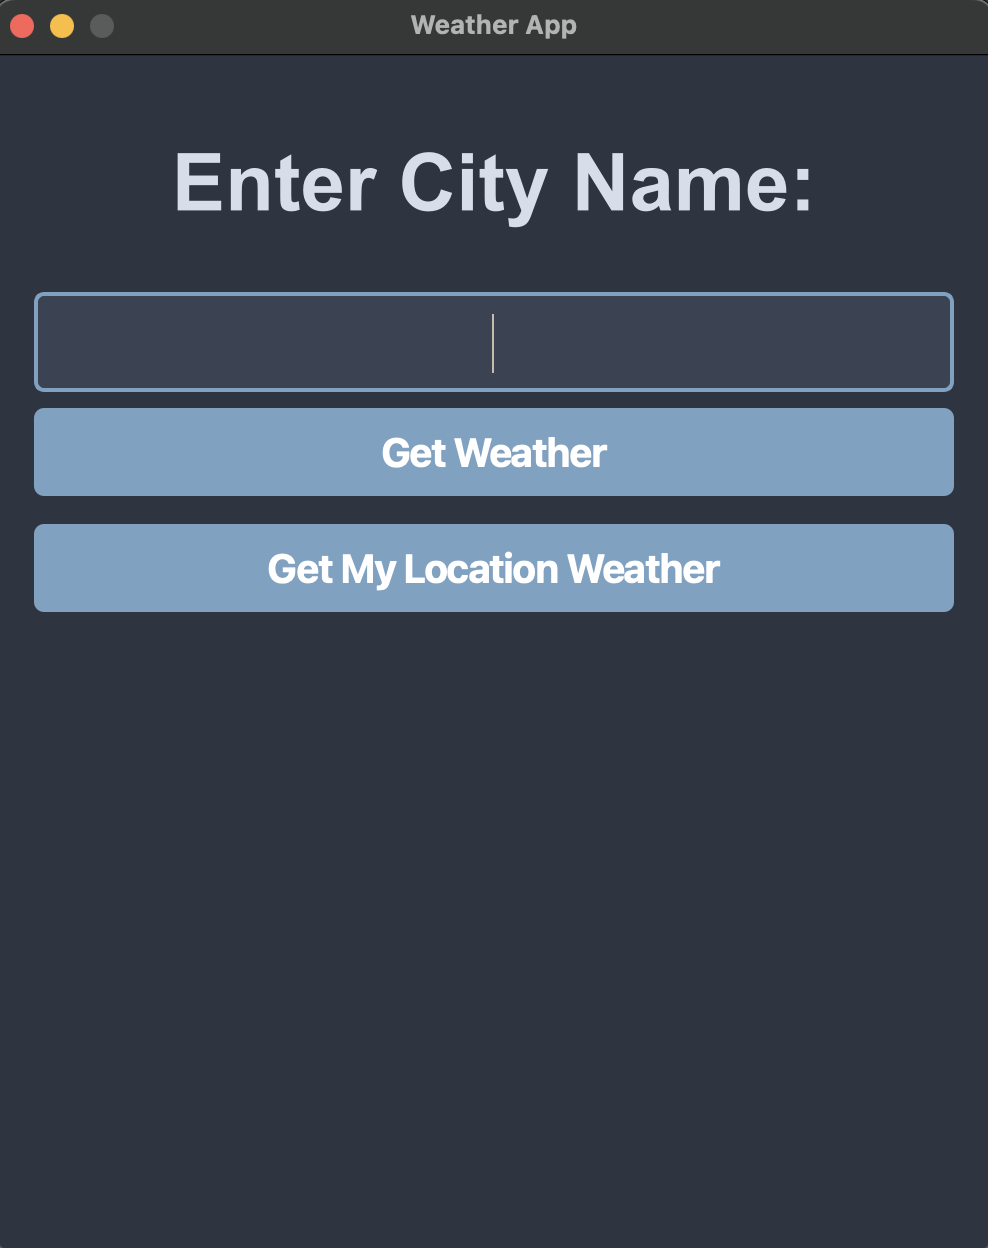
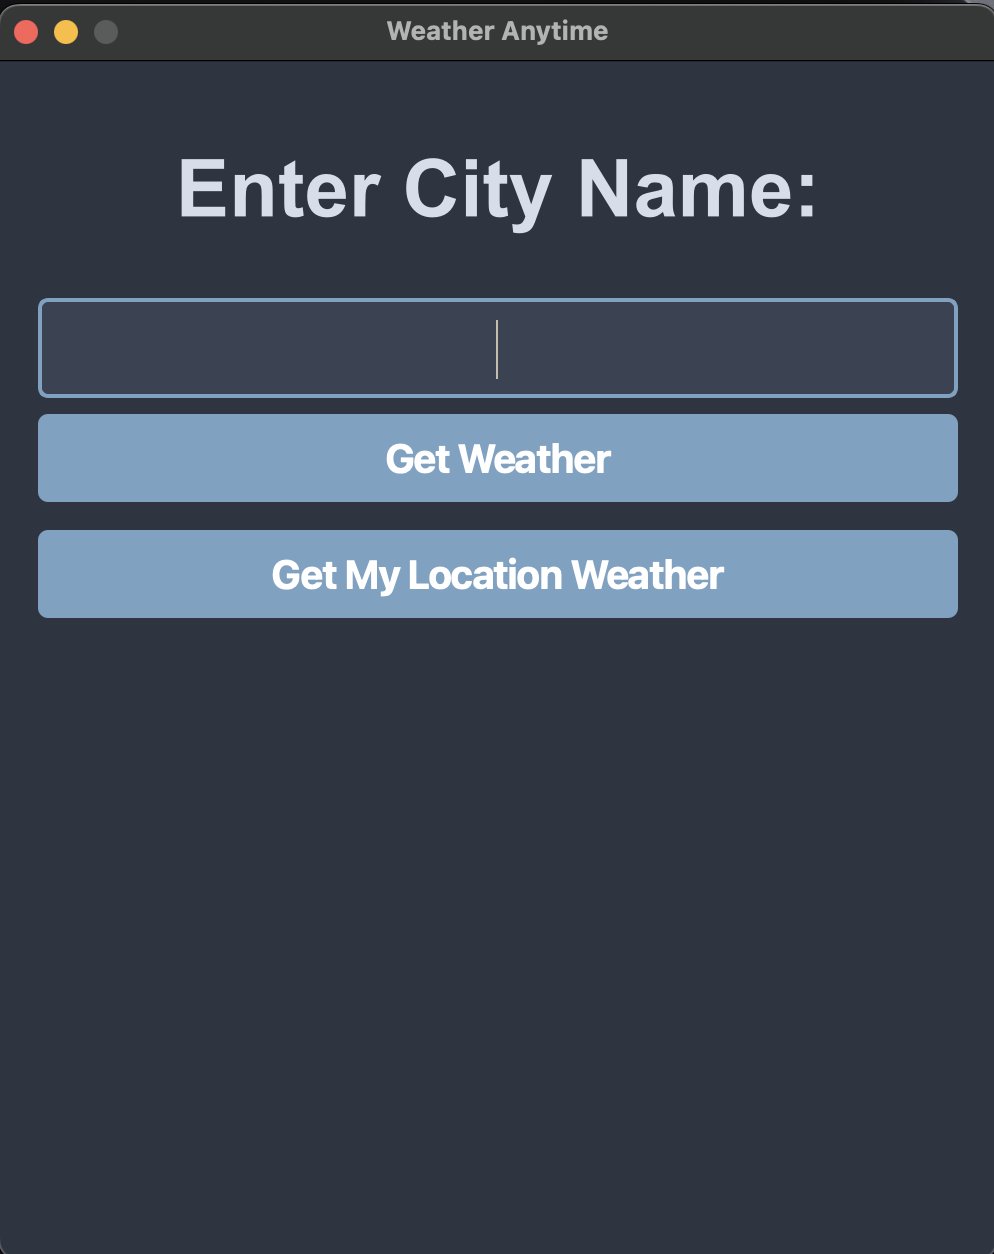
Changed the name of the app and changed the screenshots

diff --git a/main.py b/main.py
@@ -27,7 +27,7 @@ class WeatherApp(QWidget):
         self.initUI()
 
     def initUI(self):
-        self.setWindowTitle("Weather App")
+        self.setWindowTitle("Weather Anytime")
         self.setWindowIcon(QIcon("weather_icon.png"))
         self.setFixedSize(500, 600)
 
